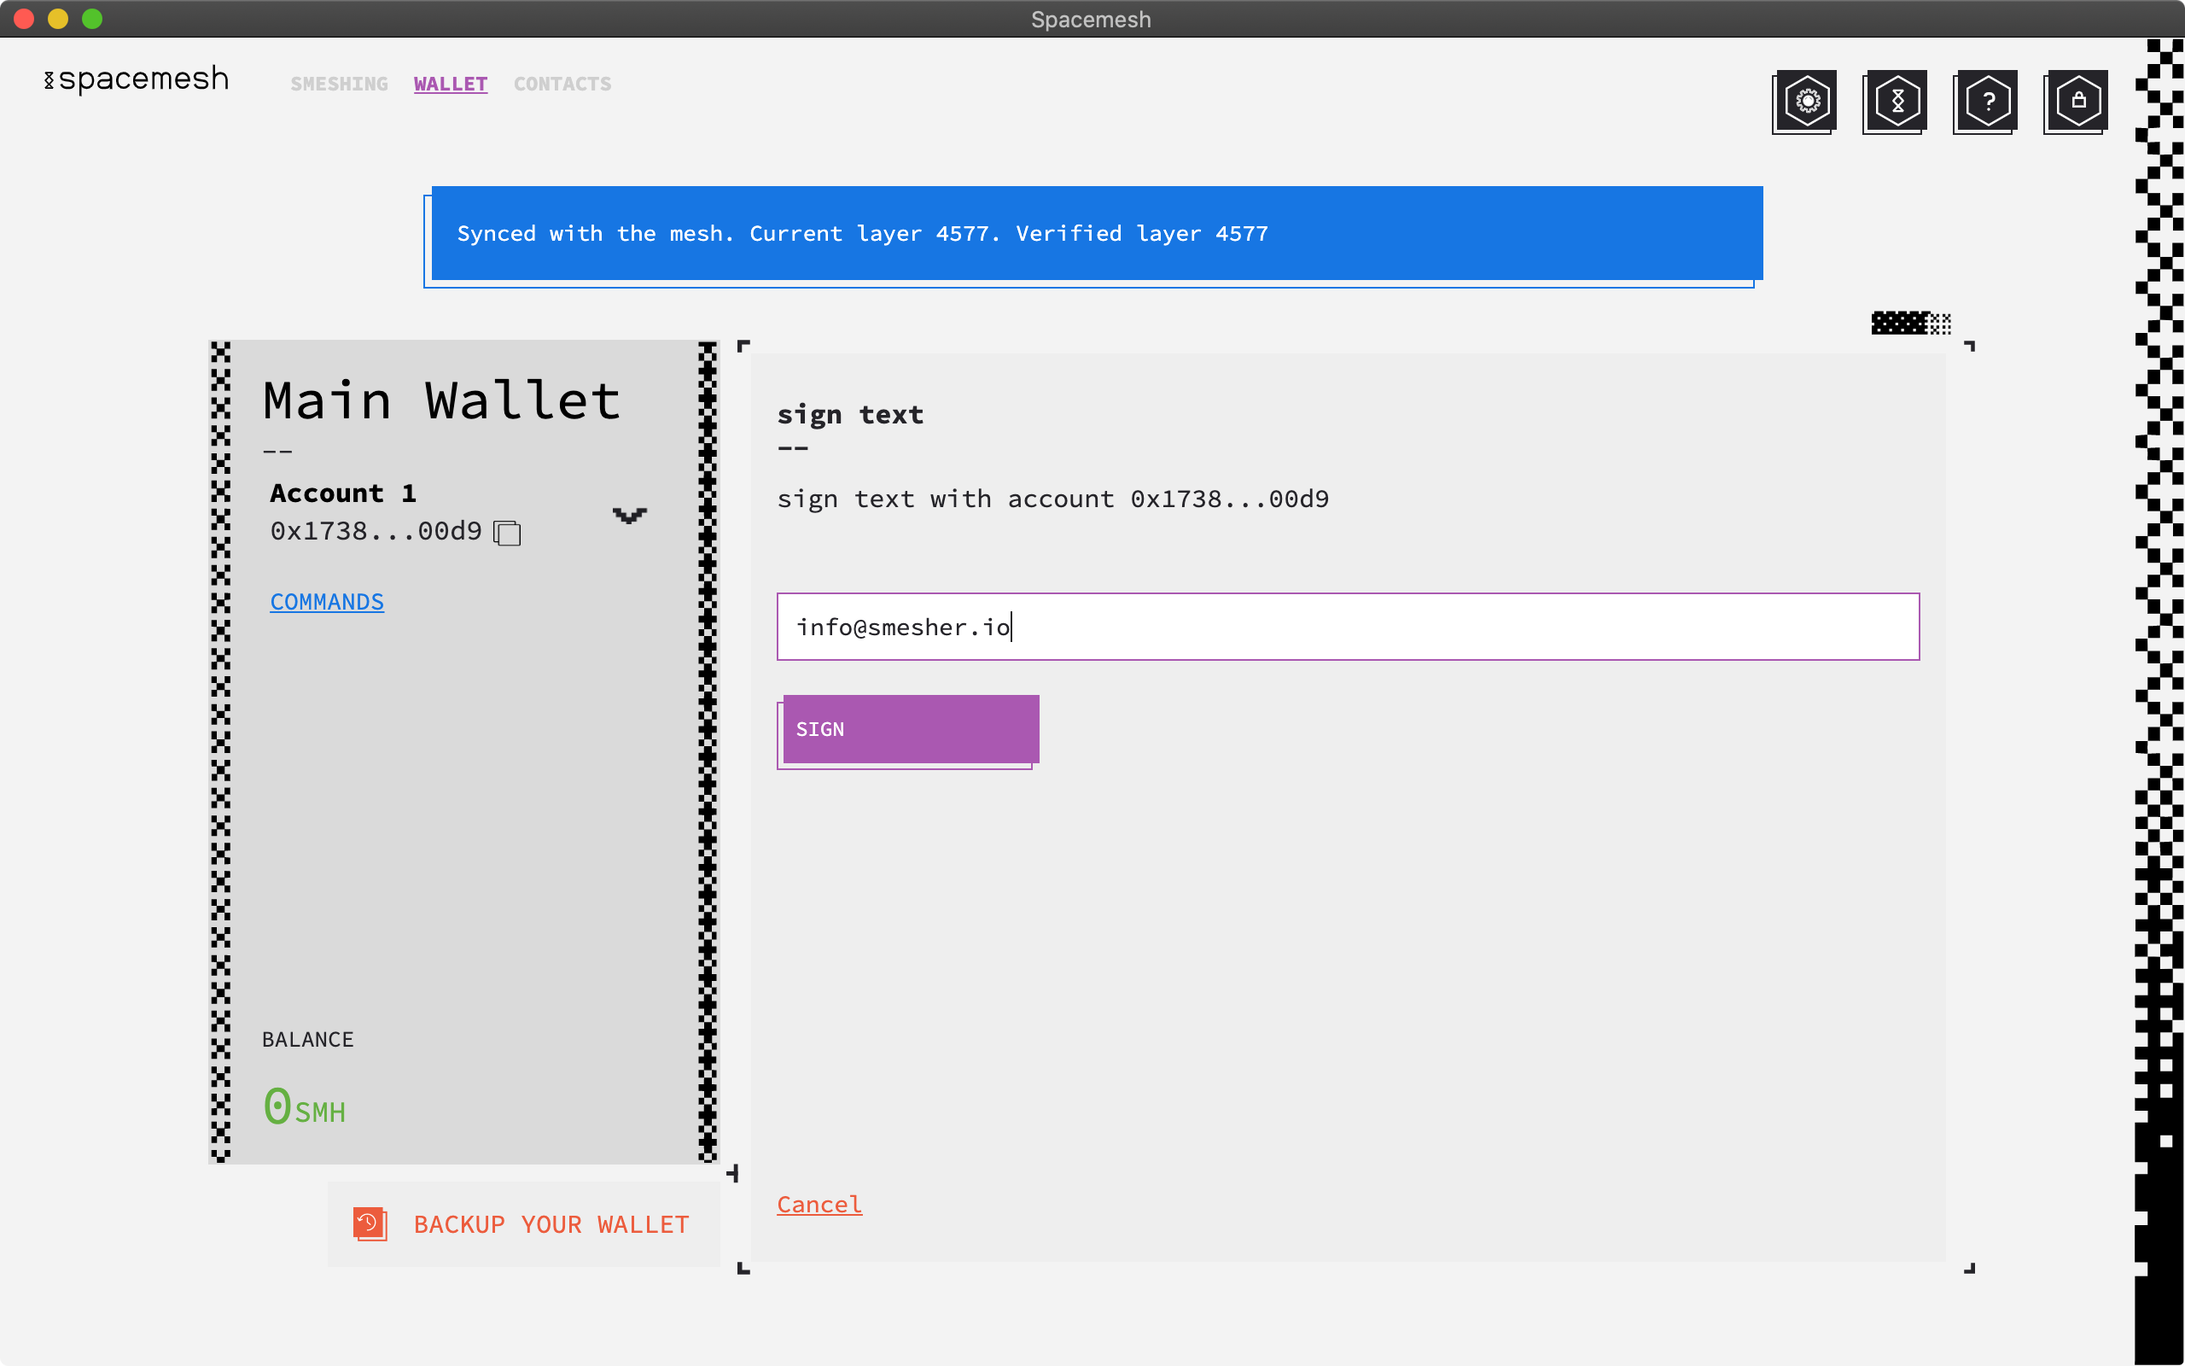
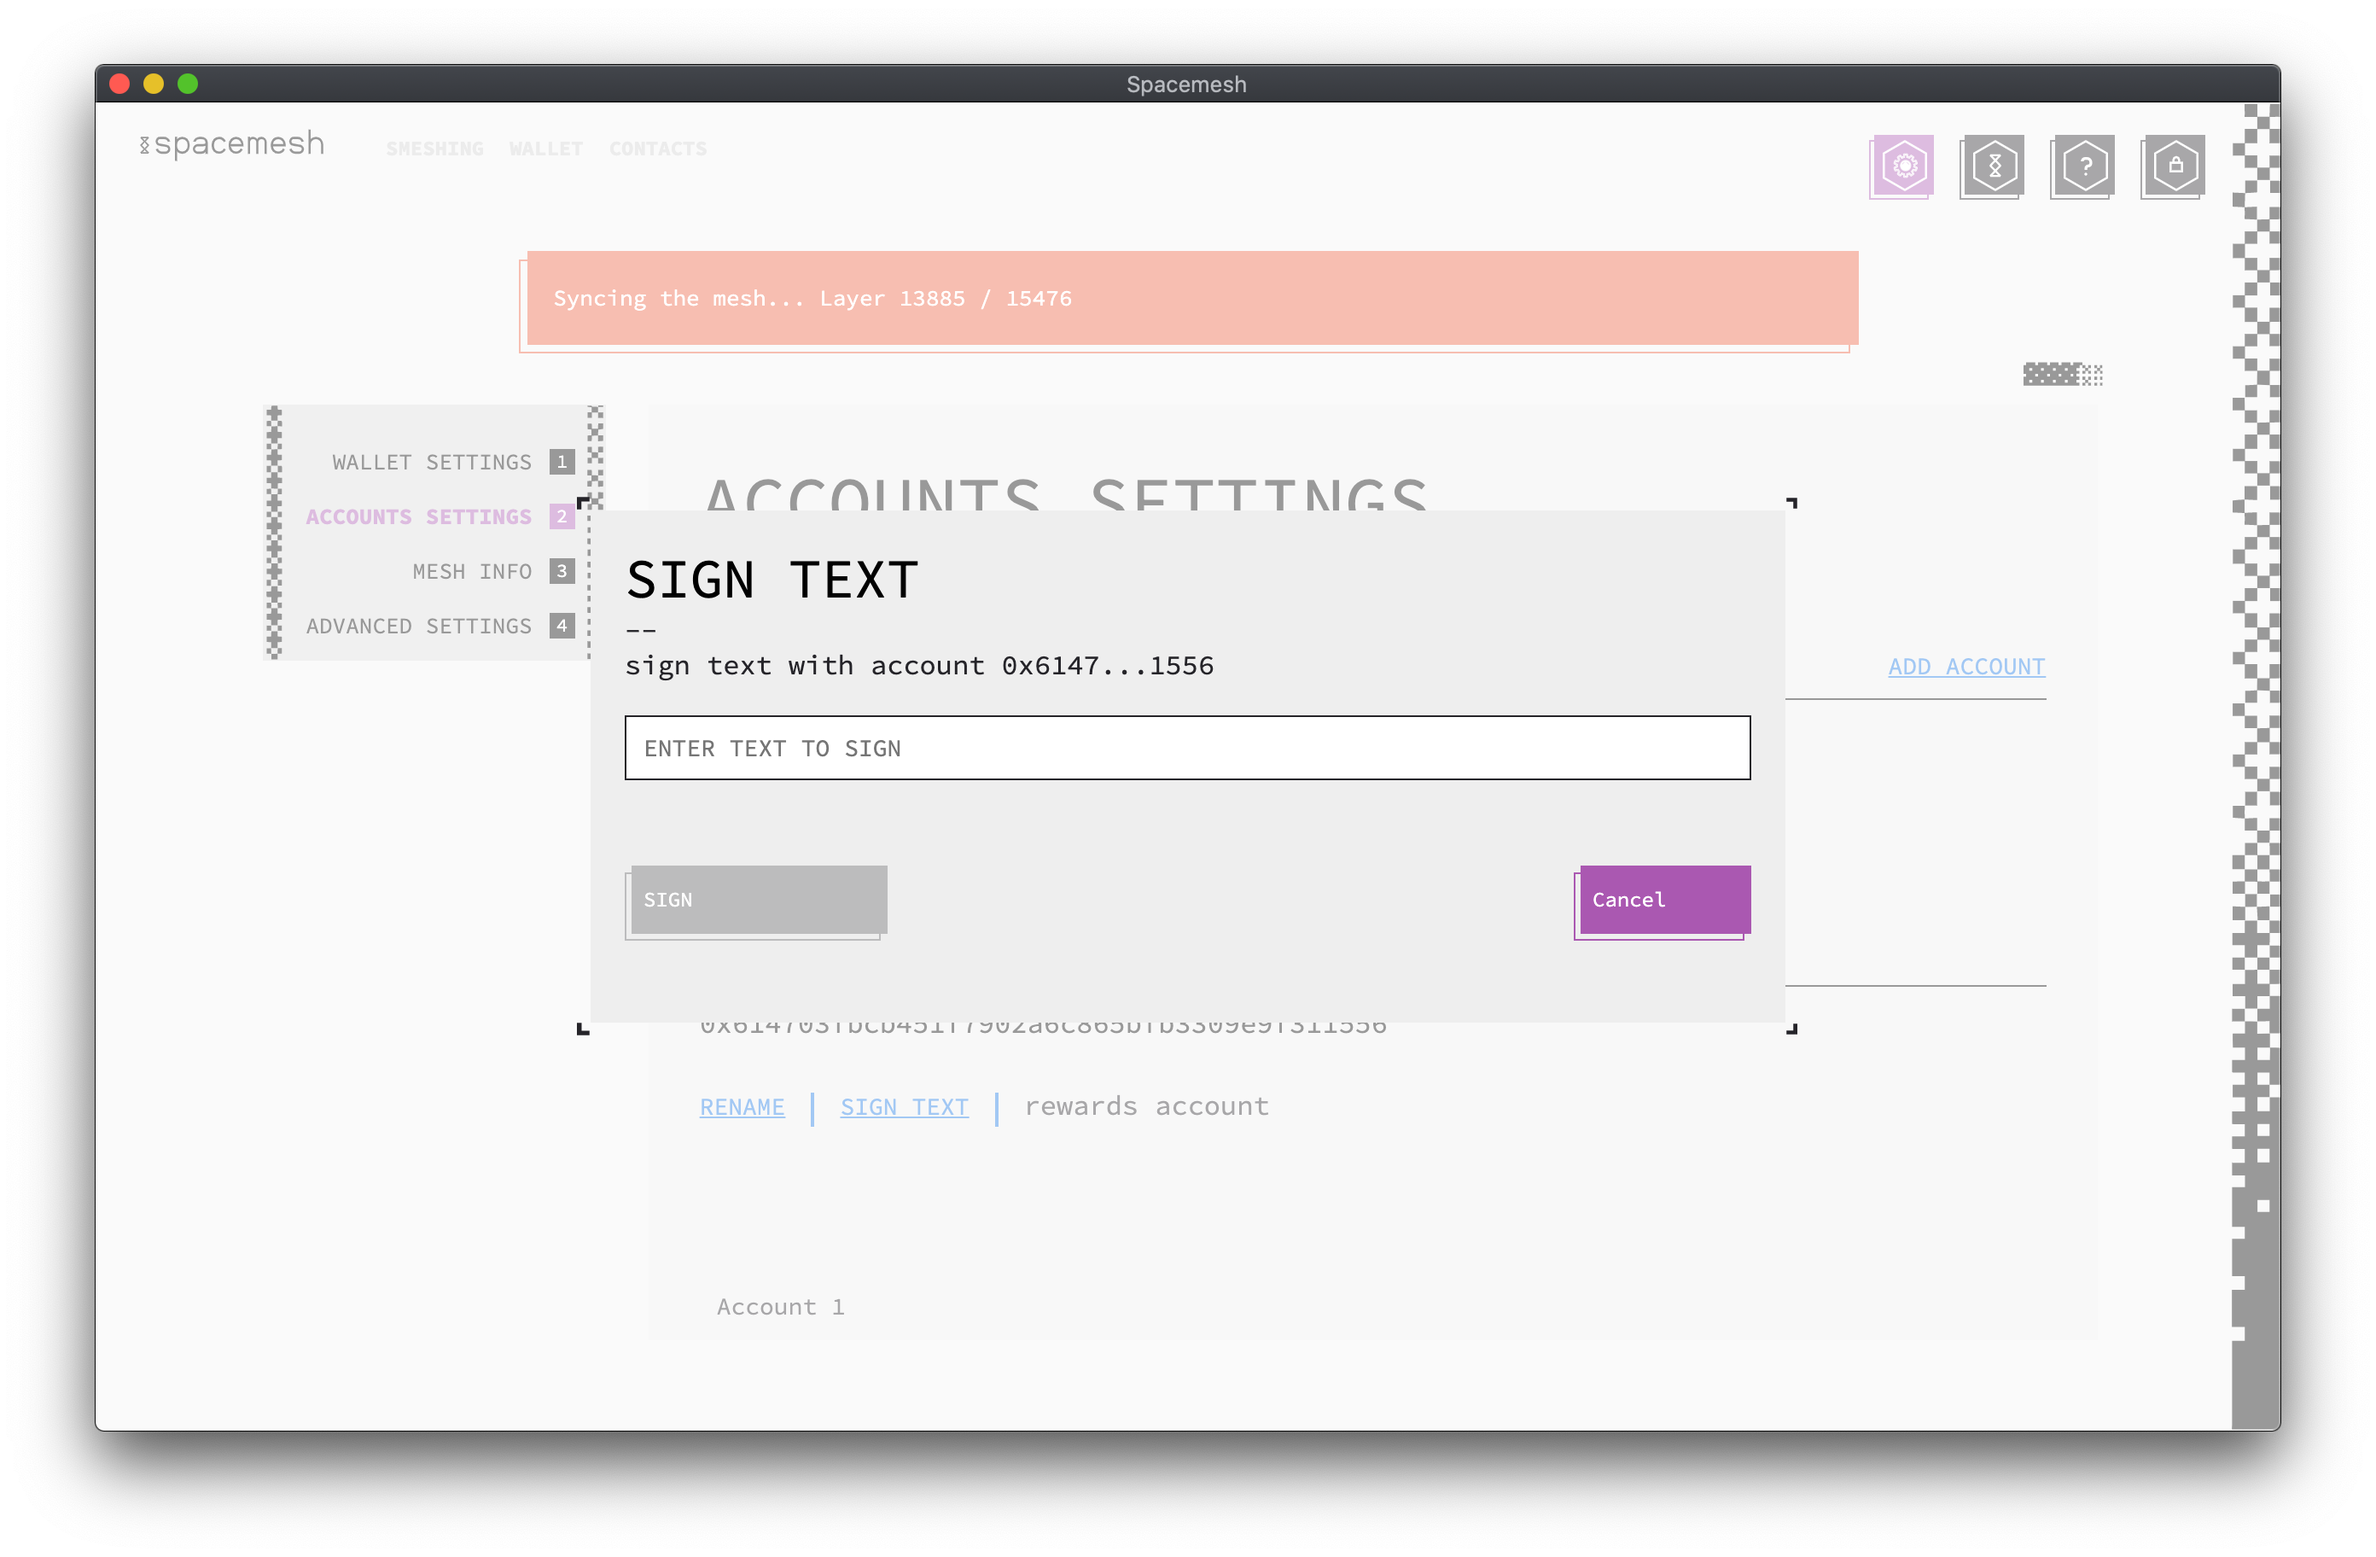
updating sign text

diff --git a/sign_text.md b/sign_text.md
@@ -1,16 +1,11 @@
 ## Signing Text
 
-
-Notice the `COMMANDS` button underneath your account in the Wallet screen..
-Clicking on it will display a list of commands available for the current wallet's account.
-Currently two commands are available: `SIGN TEXT` and `SET AS REWARDS ACCOUNT`.
-
-![](images/v1.0/account_commands.png)
-
 `SIGN TEXT` allows you to sign a text message such as your full name or email address.
 Signing is done with your account's secret key and requires access to it.
 Signing your name with your account proves that the name is the name of the owner of the account.
 As owner is defined as someone who has access to the account's secret key.
+
+In order to use the `SIGN TEXT` feature, go to `SETTINGS`. Once there, notice the box on the left of the screen and click on `ACCOUNT SETTINGS`.
 
 1. Click on the `SIGN TEXT` button.
 
@@ -19,8 +14,6 @@ As owner is defined as someone who has access to the account's secret key.
 2. Enter the text you want to sign such as your full name into the text box.
 
 3. Click the 'SIGN' button.
-
-![](images/v1.0/sign_text_2.png)
 
 The signature text is copied to the clipboard and can be sent to anyone.
 
